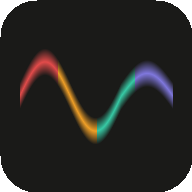
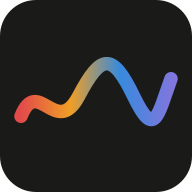
Voice Painter: PNGアイコン再生成・SWキャッシュバージョン更新

diff --git a/apps/voice-painter/sw.js b/apps/voice-painter/sw.js
@@ -1,4 +1,4 @@
-const CACHE = 'voice-painter-v2';
+const CACHE = 'voice-painter-v3';
 const ASSETS = [
   './voice-painter.html',
   './manifest.json',
